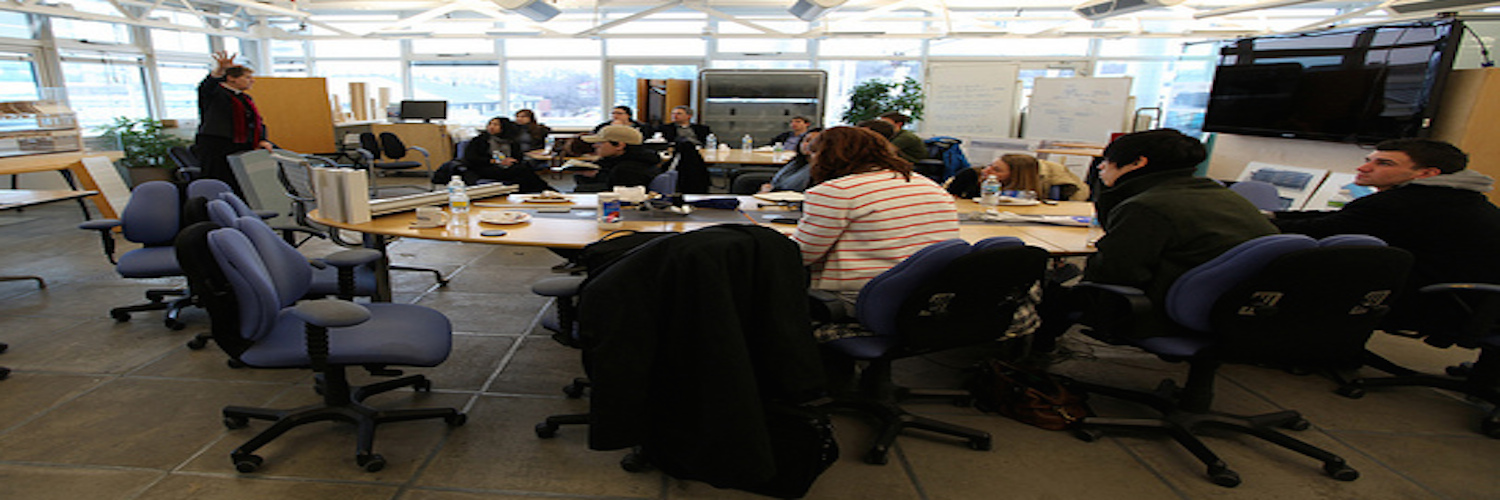
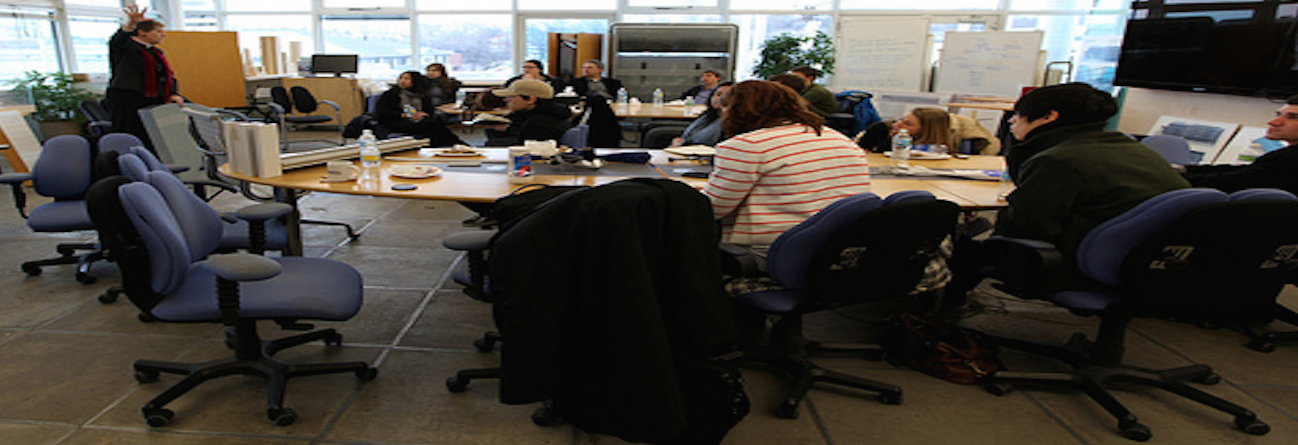
pic size; hover effect; page title
Fix the index Pic size; Border-top to Border-bottom

diff --git a/index.html b/index.html
@@ -6,8 +6,8 @@
         <meta http-equiv="X-UA-Compatible" content="IE=edge">
         <meta name="viewport" content="width=device-width, initial-scale=1">
 
-        <title>Jumbotron Template for Bootstrap</title>
         <link rel="icon" href="img/favicon.ico" type="image/x-icon">
+        <title>Whole Building Energy Parametric Analysis Tool</title>
 
         <!-- Bootstrap core CSS -->
         <link href="css/bootstrap.css" rel="stylesheet">
@@ -103,8 +103,8 @@
                     <img src="img/IW3.jpg" class="img-responsive">
                     <div class="container">
                        <div class="carousel-caption">
-                          <h1>Bootstrap 3 Carousel Layout</h1>
-                          <p>This is an example layout with carousel that uses the bootstrap styles.</p>
+                          <h1>Welcome! </h1>
+                          <p>This is Whole Building Energy Parametric Analysis Tool.</p>
                           <p><a class="btn btn-lg btn-primary" href="http://getbootstrap.com">Learn More</a></p>
                        </div>
                     </div>

diff --git a/css/custom.css b/css/custom.css
@@ -56,7 +56,9 @@ body {
   position: absolute;
   top: 0;
   left: 0;
-  min-height: 400px;
+  min-width: 100%;
+  height: 500px;
+  max-width: none;
 }
 
 /* MARKETING CONTENT
@@ -165,13 +167,13 @@ body {
 .navbar-inverse .navbar-nav > li > a:hover {
     background-color: whitesmoke;
     color: rgb(19, 161, 53);
-    border-top: 5px solid #1bee4e;
+    border-bottom: 5px solid #1bee4e;
 }
 
 /*Change the color of the active navbar item*/
-.navbar-inverse .navbar-nav > .active > a, .navbar-inverse .navbar-nav > .active > a:hover, .navbar-inverse .navbar-nav > .active > a:focus, .navbar-inverse .navbar-nav > .dropdown > a:focus {
+.navbar-inverse .navbar-nav > .active > a, .navbar-inverse .navbar-nav > .active > a:hover, .navbar-inverse .navbar-nav > .active > a:focus {
     background-color: #13a135;
-    border-top: 5px solid #1bee4e;
+    border-bottom: 5px solid #1bee4e;
 }
 
 /*Make all thumbnails in a gallery the same size for uniformity*/
